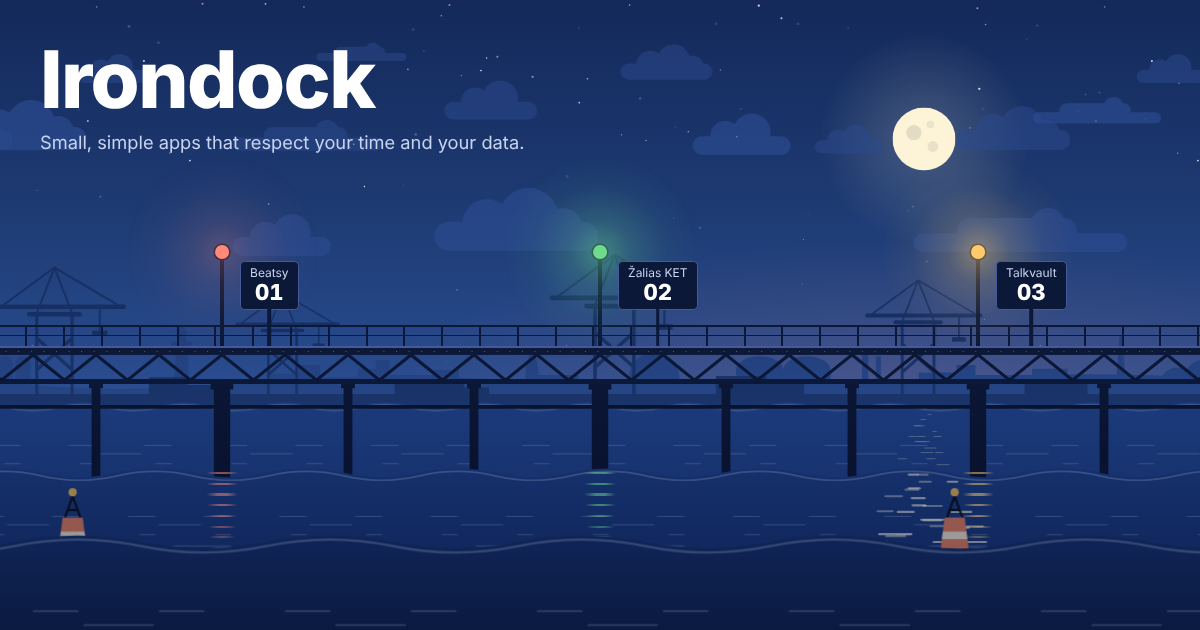
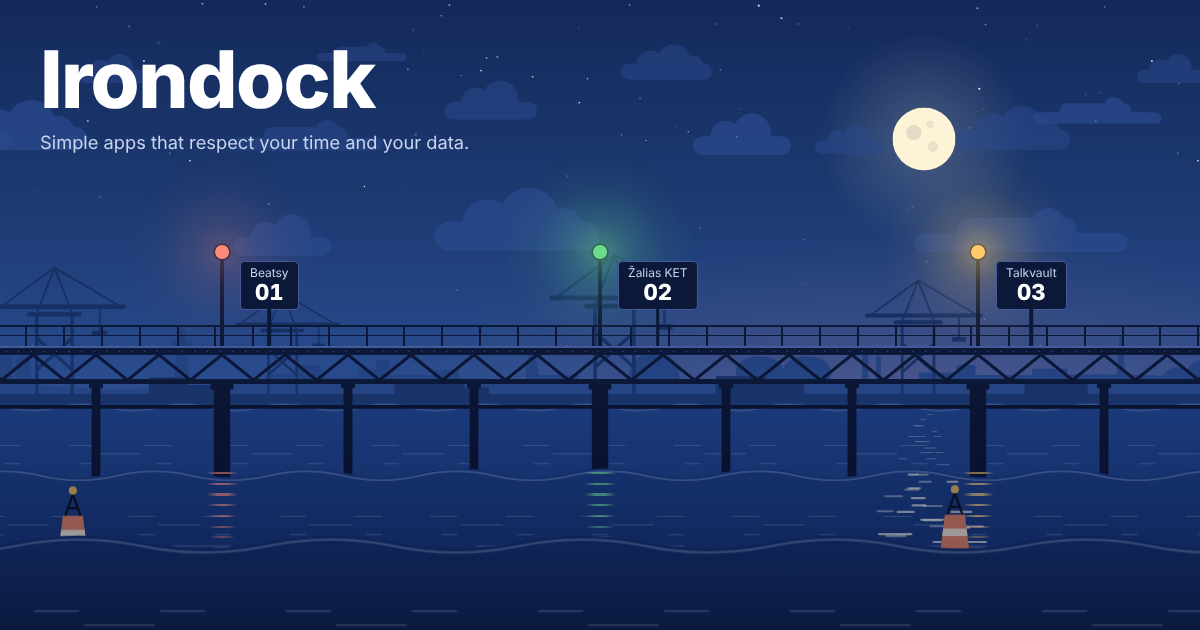
Shorter page titles; the brand wording no longer says small or Android
- Every title fits a browser tab: the app's name and what it is.
- The home pages, their descriptions and the share image describe Irondock as apps, not small Android apps: games and web apps will follow.

Claude-Session: https://claude.ai/code/session_01Kqpfhwjm5Z316uciNpuQ4d

Changed region(s): [[0.0308, 0.2111, 0.4317, 0.2413], [0.7708, 0.7841, 0.8017, 0.8444]]

diff --git a/lt/index.html b/lt/index.html
@@ -3,16 +3,16 @@
 <head>
 <meta charset="utf-8">
 <meta name="viewport" content="width=device-width, initial-scale=1">
-<title>Irondock – mažos, paprastos Android programėlės</title>
-<meta name="description" content="Irondock kuria mažas Android programėles: pulso matuoklį Beatsy, KET testų ir teorijos programėlę Žalias KET ir skambučių įrašymo programėlę Talkvault.">
+<title>Irondock – programėlės</title>
+<meta name="description" content="Irondock kuria programėles: pulso matuoklį Beatsy, KET testų ir teorijos programėlę Žalias KET ir skambučių įrašymo programėlę Talkvault.">
 <link rel="canonical" href="https://irondock.dev/lt/">
 <link rel="alternate" hreflang="en" href="https://irondock.dev/">
 <link rel="alternate" hreflang="lt" href="https://irondock.dev/lt/">
 <link rel="alternate" hreflang="x-default" href="https://irondock.dev/">
 <meta property="og:type" content="website">
 <meta property="og:site_name" content="Irondock">
-<meta property="og:title" content="Irondock – mažos, paprastos Android programėlės">
-<meta property="og:description" content="Irondock kuria mažas Android programėles: pulso matuoklį Beatsy, KET testų ir teorijos programėlę Žalias KET ir skambučių įrašymo programėlę Talkvault.">
+<meta property="og:title" content="Irondock – programėlės">
+<meta property="og:description" content="Irondock kuria programėles: pulso matuoklį Beatsy, KET testų ir teorijos programėlę Žalias KET ir skambučių įrašymo programėlę Talkvault.">
 <meta property="og:url" content="https://irondock.dev/lt/">
 <meta property="og:image" content="https://irondock.dev/og.png">
 <meta name="twitter:card" content="summary_large_image">
@@ -35,7 +35,7 @@ window.skyNow=now;document.documentElement.dataset.sky=/^(dawn|day|dusk|night)$/
   "@type": "WebSite",
   "name": "Irondock",
   "url": "https://irondock.dev/lt/",
-  "description": "Mažos, paprastos programėlės, kurios gerbia tavo laiką ir duomenis.",
+  "description": "Paprastos programėlės, kurios gerbia tavo laiką ir duomenis.",
   "inLanguage": "lt",
   "alternateName": [
     "Iron Dock",
@@ -82,7 +82,7 @@ window.skyNow=now;document.documentElement.dataset.sky=/^(dawn|day|dusk|night)$/
   <div class="hero-text">
     <div data-swap="hero">
       <h1>Irondock</h1>
-      <p class="lead">Mažos, paprastos programėlės, kurios gerbia tavo laiką ir duomenis.</p>
+      <p class="lead">Paprastos programėlės, kurios gerbia tavo laiką ir duomenis.</p>
     </div>
   </div>
   <a class="lang" href="../" data-nav data-sync="lang" hreflang="en" aria-label="English">
@@ -114,7 +114,7 @@ window.skyNow=now;document.documentElement.dataset.sky=/^(dawn|day|dusk|night)$/
 </nav>
 
 <main class="content" data-swap="main">
-  <p>Irondock (rašoma ir Iron Dock) – tai vardas, po kuriuo gyvena kelios mažos Android programėlės. Kiekviena daro vieną darbą, veikia be paskyros ir laiko duomenis tavo telefone. Kiekviena turi savo krantinę doke: pasirink ją aukščiau.</p>
+  <p>Irondock (rašoma ir Iron Dock) – tai vardas, po kuriuo gyvena kelios programėlės. Kiekviena daro vieną darbą, veikia be paskyros ir laiko duomenis tavo telefone. Kiekviena turi savo krantinę doke: pasirink ją aukščiau.</p>
   <h2>Programėlės</h2>
   <p><a href="../lt/beatsy/" data-nav>Beatsy</a> – pulso matuoklis, kuris pulsą nuskaito telefono kamera. <a href="../lt/zalias-ket/" data-nav>Žalias KET</a> – KET testai, teorijos pamokos ir visi kelio ženklai pasiruošti vairavimo teorijos egzaminui. <a href="../lt/talkvault/" data-nav>Talkvault</a> – automatinis skambučių įrašymas Android telefone, atsisiunčiamas čia kaip APK.</p>
 </main>

diff --git a/index.html b/index.html
@@ -3,16 +3,16 @@
 <head>
 <meta charset="utf-8">
 <meta name="viewport" content="width=device-width, initial-scale=1">
-<title>Irondock – small, simple Android apps</title>
-<meta name="description" content="Irondock makes small Android apps that respect your time and your data: Beatsy heart rate monitor, Žalias KET driving theory trainer and Talkvault call recorder.">
+<title>Irondock – apps</title>
+<meta name="description" content="Irondock makes apps that respect your time and your data: Beatsy heart rate monitor, Žalias KET driving theory trainer and Talkvault call recorder.">
 <link rel="canonical" href="https://irondock.dev/">
 <link rel="alternate" hreflang="en" href="https://irondock.dev/">
 <link rel="alternate" hreflang="lt" href="https://irondock.dev/lt/">
 <link rel="alternate" hreflang="x-default" href="https://irondock.dev/">
 <meta property="og:type" content="website">
 <meta property="og:site_name" content="Irondock">
-<meta property="og:title" content="Irondock – small, simple Android apps">
-<meta property="og:description" content="Irondock makes small Android apps that respect your time and your data: Beatsy heart rate monitor, Žalias KET driving theory trainer and Talkvault call recorder.">
+<meta property="og:title" content="Irondock – apps">
+<meta property="og:description" content="Irondock makes apps that respect your time and your data: Beatsy heart rate monitor, Žalias KET driving theory trainer and Talkvault call recorder.">
 <meta property="og:url" content="https://irondock.dev/">
 <meta property="og:image" content="https://irondock.dev/og.png">
 <meta name="twitter:card" content="summary_large_image">
@@ -35,7 +35,7 @@ window.skyNow=now;document.documentElement.dataset.sky=/^(dawn|day|dusk|night)$/
   "@type": "WebSite",
   "name": "Irondock",
   "url": "https://irondock.dev/",
-  "description": "Small, simple apps that respect your time and your data.",
+  "description": "Simple apps that respect your time and your data.",
   "inLanguage": "en",
   "alternateName": [
     "Iron Dock",
@@ -82,7 +82,7 @@ window.skyNow=now;document.documentElement.dataset.sky=/^(dawn|day|dusk|night)$/
   <div class="hero-text">
     <div data-swap="hero">
       <h1>Irondock</h1>
-      <p class="lead">Small, simple apps that respect your time and your data.</p>
+      <p class="lead">Simple apps that respect your time and your data.</p>
     </div>
   </div>
   <a class="lang" href="lt/" data-nav data-sync="lang" hreflang="lt" aria-label="Lietuviškai">
@@ -114,7 +114,7 @@ window.skyNow=now;document.documentElement.dataset.sky=/^(dawn|day|dusk|night)$/
 </nav>
 
 <main class="content" data-swap="main">
-  <p>Irondock (also written Iron Dock) is the name behind a few small Android apps. Each one does a single job, works without an account and keeps your data on your phone. Every app has its own berth on the dock: pick one above.</p>
+  <p>Irondock (also written Iron Dock) is the name behind a few apps. Each one does a single job, works without an account and keeps your data on your phone. Every app has its own berth on the dock: pick one above.</p>
   <h2>The apps</h2>
   <p><a href="beatsy/" data-nav>Beatsy</a> is a heart rate monitor that reads your pulse through the phone camera. <a href="zalias-ket/" data-nav>Žalias KET</a> prepares you for the Lithuanian driving theory exam with lessons, tests and every road sign. <a href="talkvault/" data-nav>Talkvault</a> is an automatic call recorder for Android that you download here as an APK.</p>
 </main>

diff --git a/lt/talkvault/index.html b/lt/talkvault/index.html
@@ -3,7 +3,7 @@
 <head>
 <meta charset="utf-8">
 <meta name="viewport" content="width=device-width, initial-scale=1">
-<title>Talkvault – skambučių įrašymas Android telefone (APK) | Irondock</title>
+<title>Talkvault – skambučių įrašai</title>
 <meta name="description" content="Talkvault automatiškai įrašo telefono skambučius ir laiko juos tavo telefone: su užraktu, pastabomis ir automatiniu trynimu. APK, skirtas Android 7.0 ir naujesnėms versijoms.">
 <link rel="canonical" href="https://irondock.dev/lt/talkvault/">
 <link rel="alternate" hreflang="en" href="https://irondock.dev/talkvault/">
@@ -11,7 +11,7 @@
 <link rel="alternate" hreflang="x-default" href="https://irondock.dev/talkvault/">
 <meta property="og:type" content="website">
 <meta property="og:site_name" content="Irondock">
-<meta property="og:title" content="Talkvault – skambučių įrašymas Android telefone (APK) | Irondock">
+<meta property="og:title" content="Talkvault – skambučių įrašai">
 <meta property="og:description" content="Talkvault automatiškai įrašo telefono skambučius ir laiko juos tavo telefone: su užraktu, pastabomis ir automatiniu trynimu. APK, skirtas Android 7.0 ir naujesnėms versijoms.">
 <meta property="og:url" content="https://irondock.dev/lt/talkvault/">
 <meta property="og:image" content="https://irondock.dev/og.png">

diff --git a/lt/zalias-ket/index.html b/lt/zalias-ket/index.html
@@ -3,7 +3,7 @@
 <head>
 <meta charset="utf-8">
 <meta name="viewport" content="width=device-width, initial-scale=1">
-<title>Žalias KET – KET testai ir teorija B kategorijos egzaminui | Irondock</title>
+<title>Žalias KET – KET testai</title>
 <meta name="description" content="KET testai, teorijos pamokos ir kelio ženklai vienoje programėlėje: 26 skyriai, beveik 2 900 klausimų, per 500 situacijų, egzamino treniruotė. Be interneto ir reklamos.">
 <link rel="canonical" href="https://irondock.dev/lt/zalias-ket/">
 <link rel="alternate" hreflang="en" href="https://irondock.dev/zalias-ket/">
@@ -11,7 +11,7 @@
 <link rel="alternate" hreflang="x-default" href="https://irondock.dev/zalias-ket/">
 <meta property="og:type" content="website">
 <meta property="og:site_name" content="Irondock">
-<meta property="og:title" content="Žalias KET – KET testai ir teorija B kategorijos egzaminui | Irondock">
+<meta property="og:title" content="Žalias KET – KET testai">
 <meta property="og:description" content="KET testai, teorijos pamokos ir kelio ženklai vienoje programėlėje: 26 skyriai, beveik 2 900 klausimų, per 500 situacijų, egzamino treniruotė. Be interneto ir reklamos.">
 <meta property="og:url" content="https://irondock.dev/lt/zalias-ket/">
 <meta property="og:image" content="https://irondock.dev/og.png">

diff --git a/zalias-ket/index.html b/zalias-ket/index.html
@@ -3,7 +3,7 @@
 <head>
 <meta charset="utf-8">
 <meta name="viewport" content="width=device-width, initial-scale=1">
-<title>Žalias KET – Lithuanian driving theory exam trainer | Irondock</title>
+<title>Žalias KET – driving theory</title>
 <meta name="description" content="Žalias KET prepares you for the Lithuanian driving theory exam: 26 chapters of lessons, almost 2,900 questions, over 500 traffic situations and every road sign.">
 <link rel="canonical" href="https://irondock.dev/zalias-ket/">
 <link rel="alternate" hreflang="en" href="https://irondock.dev/zalias-ket/">
@@ -11,7 +11,7 @@
 <link rel="alternate" hreflang="x-default" href="https://irondock.dev/zalias-ket/">
 <meta property="og:type" content="website">
 <meta property="og:site_name" content="Irondock">
-<meta property="og:title" content="Žalias KET – Lithuanian driving theory exam trainer | Irondock">
+<meta property="og:title" content="Žalias KET – driving theory">
 <meta property="og:description" content="Žalias KET prepares you for the Lithuanian driving theory exam: 26 chapters of lessons, almost 2,900 questions, over 500 traffic situations and every road sign.">
 <meta property="og:url" content="https://irondock.dev/zalias-ket/">
 <meta property="og:image" content="https://irondock.dev/og.png">

diff --git a/talkvault/index.html b/talkvault/index.html
@@ -3,7 +3,7 @@
 <head>
 <meta charset="utf-8">
 <meta name="viewport" content="width=device-width, initial-scale=1">
-<title>Talkvault – automatic call recorder for Android (APK) | Irondock</title>
+<title>Talkvault – call recorder</title>
 <meta name="description" content="Talkvault records your phone calls automatically and keeps them on your phone, with app lock, notes and auto-delete. APK download for Android 7.0 and newer.">
 <link rel="canonical" href="https://irondock.dev/talkvault/">
 <link rel="alternate" hreflang="en" href="https://irondock.dev/talkvault/">
@@ -11,7 +11,7 @@
 <link rel="alternate" hreflang="x-default" href="https://irondock.dev/talkvault/">
 <meta property="og:type" content="website">
 <meta property="og:site_name" content="Irondock">
-<meta property="og:title" content="Talkvault – automatic call recorder for Android (APK) | Irondock">
+<meta property="og:title" content="Talkvault – call recorder">
 <meta property="og:description" content="Talkvault records your phone calls automatically and keeps them on your phone, with app lock, notes and auto-delete. APK download for Android 7.0 and newer.">
 <meta property="og:url" content="https://irondock.dev/talkvault/">
 <meta property="og:image" content="https://irondock.dev/og.png">

diff --git a/beatsy/index.html b/beatsy/index.html
@@ -3,7 +3,7 @@
 <head>
 <meta charset="utf-8">
 <meta name="viewport" content="width=device-width, initial-scale=1">
-<title>Beatsy – heart rate monitor for Android | Irondock</title>
+<title>Beatsy – heart rate monitor</title>
 <meta name="description" content="Beatsy checks your heart rate with your phone camera. No account, no analytics, ads never interrupt a measurement, and your data stays on your phone.">
 <link rel="canonical" href="https://irondock.dev/beatsy/">
 <link rel="alternate" hreflang="en" href="https://irondock.dev/beatsy/">
@@ -11,7 +11,7 @@
 <link rel="alternate" hreflang="x-default" href="https://irondock.dev/beatsy/">
 <meta property="og:type" content="website">
 <meta property="og:site_name" content="Irondock">
-<meta property="og:title" content="Beatsy – heart rate monitor for Android | Irondock">
+<meta property="og:title" content="Beatsy – heart rate monitor">
 <meta property="og:description" content="Beatsy checks your heart rate with your phone camera. No account, no analytics, ads never interrupt a measurement, and your data stays on your phone.">
 <meta property="og:url" content="https://irondock.dev/beatsy/">
 <meta property="og:image" content="https://irondock.dev/og.png">

diff --git a/lt/beatsy/index.html b/lt/beatsy/index.html
@@ -3,7 +3,7 @@
 <head>
 <meta charset="utf-8">
 <meta name="viewport" content="width=device-width, initial-scale=1">
-<title>Beatsy – pulso matuoklis telefone (Android) | Irondock</title>
+<title>Beatsy – pulso matuoklis</title>
 <meta name="description" content="Beatsy išmatuoja pulsą telefono kamera. Be paskyros ir analitikos, reklamos niekada nepertraukia matavimo, o duomenys lieka tavo telefone.">
 <link rel="canonical" href="https://irondock.dev/lt/beatsy/">
 <link rel="alternate" hreflang="en" href="https://irondock.dev/beatsy/">
@@ -11,7 +11,7 @@
 <link rel="alternate" hreflang="x-default" href="https://irondock.dev/beatsy/">
 <meta property="og:type" content="website">
 <meta property="og:site_name" content="Irondock">
-<meta property="og:title" content="Beatsy – pulso matuoklis telefone (Android) | Irondock">
+<meta property="og:title" content="Beatsy – pulso matuoklis">
 <meta property="og:description" content="Beatsy išmatuoja pulsą telefono kamera. Be paskyros ir analitikos, reklamos niekada nepertraukia matavimo, o duomenys lieka tavo telefone.">
 <meta property="og:url" content="https://irondock.dev/lt/beatsy/">
 <meta property="og:image" content="https://irondock.dev/og.png">
